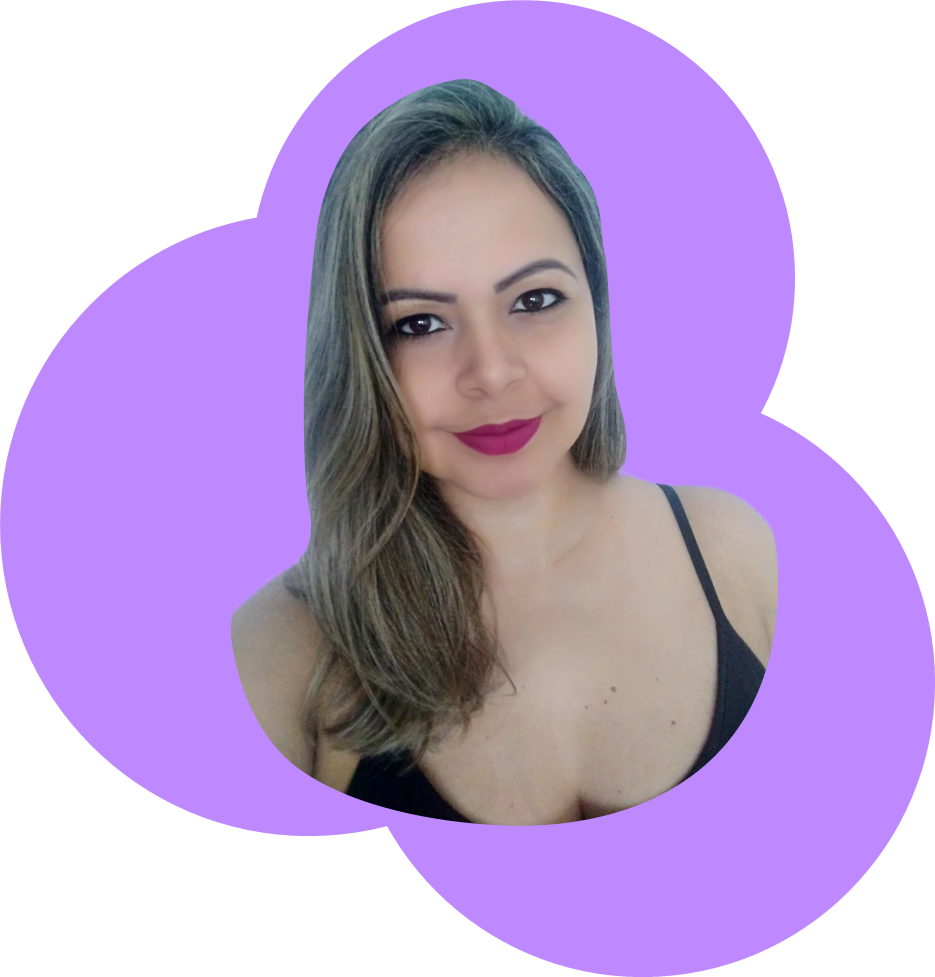
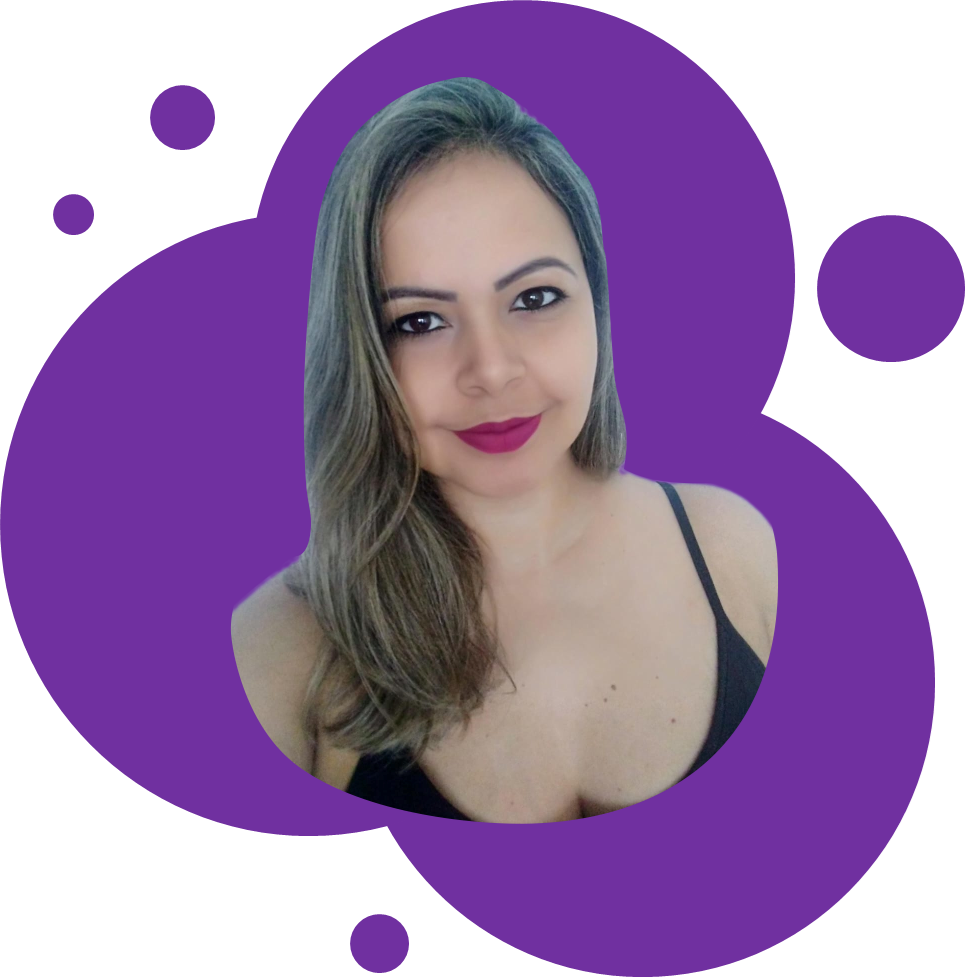
Colocando seção de background fixo

diff --git a/index.html b/index.html
@@ -84,19 +84,22 @@
         </div>
       </div>
     </section>
+    <section class="bg-eudora-fixed"></section>
     <section class="about-me">
       <a name="about-me"></a>
       <div class="container">
         <div class="about-me_container sections-container">
           <div class="about-me_image-container">
-            <img src="./src/img/perfil-andreia.png" alt="Foto de perfil da Andreia com fundo lilás arredondado">
+            <img class="about-me_image" src="./src/img/perfil-andreia.png" alt="Foto de perfil da Andreia com fundo lilás arredondado">
           </div>
           <div class="about-me_text-container">
             <h3 class="about-me_title">Sobre mim</h3>
-            <p class="about-me_text">Meu nome é Andreia e sou representante Eudora há 5 anos e nosso propósito é destacar sua beleza, despertar sua autoestima e incentivar o seu autocuidado através dos nossos produtos.</p>
-            <p class="about-me_text">Sejam bem vindos e venham conhecer os produtos dessa linha maravilhosa! Eudora é uma empresa do grupo oBoticário, produtos que fazem o maior sucesso!</p>
-            <p class="about-me_text">"Ser representante Eudora é correr atrás dos seus sonhos, empreender e acreditar no seu potencial".</p>
-            <p class="about-me_text-signature">Andreia Santos <br> Representante Eudora</p>
+            <div class="about-me_text-box">
+              <p class="about-me_text">Meu nome é Andreia e sou representante Eudora há 5 anos e nosso propósito é destacar sua beleza, despertar sua autoestima e incentivar o seu autocuidado através dos nossos produtos.</p>
+              <p class="about-me_text">Sejam bem vindos e venham conhecer os produtos dessa linha maravilhosa! Eudora é uma empresa do grupo oBoticário, produtos que fazem o maior sucesso!</p>
+              <p class="about-me_text">"Ser representante Eudora é correr atrás dos seus sonhos, empreender e acreditar no seu potencial".</p>
+              <p class="about-me_text-signature">Andreia Santos <br> Representante Eudora</p>
+            </div>
           </div>
         </div>
       </div>

diff --git a/src/css/style.css b/src/css/style.css
@@ -358,9 +358,50 @@ html {
   transform: scale(0.98);
 }
 
+/* BACKGROUND EUDORA FIXED */
+.bg-eudora-fixed {
+  background-image: url(../img/logo/logo-eudora3.png);
+  background-repeat: no-repeat;
+  background-position: center;
+  background-attachment: fixed;
+  background-size: 60%;
+  width: 100%;
+  background-color: #532685;
+  height: 100vh;
+  padding: 85px 0;
+  box-sizing: border-box;
+}
+/*
+.bg-eudora-fixed .container {
+  height: 100%;
+}
+
+.bg-eudora-fixed_content {
+  background-image: url(../img/logo/logo-eudora3.png);
+  background-repeat: no-repeat;
+  background-position: center;
+  background-attachment: fixed;
+  background-size: 60%;
+  width: 100%;
+  height: 100%;
+}
+*/
 /* ABOUT ME */
 .about-me {
-  background-color: #532685;
+  background-color: #FFF;
+}
+
+.about-me_container {
+  display: flex;
+  justify-content: space-between;
+}
+
+.about-me_container > div {
+  width: 45%;
+}
+
+.about-me_image {
+  width: 80%;
 }
 
 /* FOOTER */
